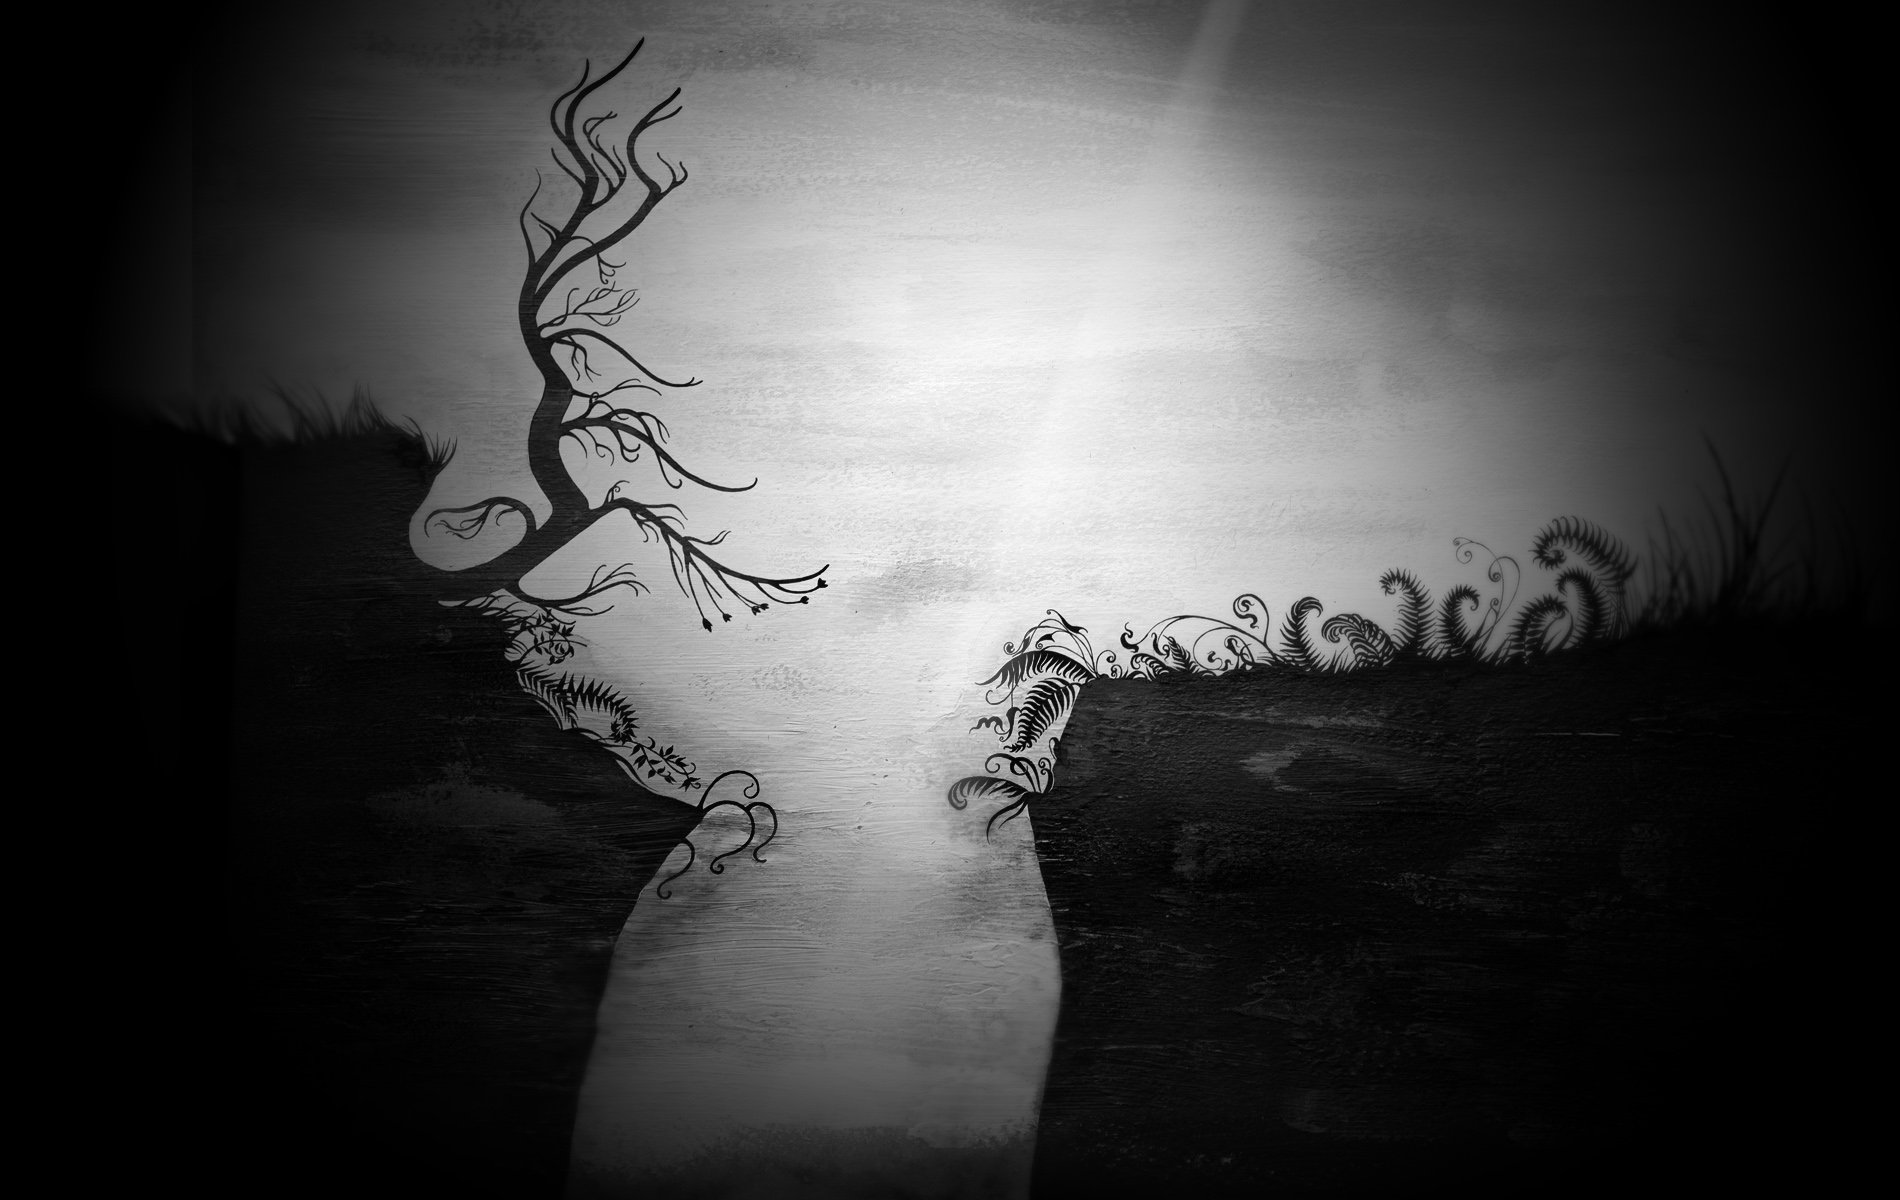
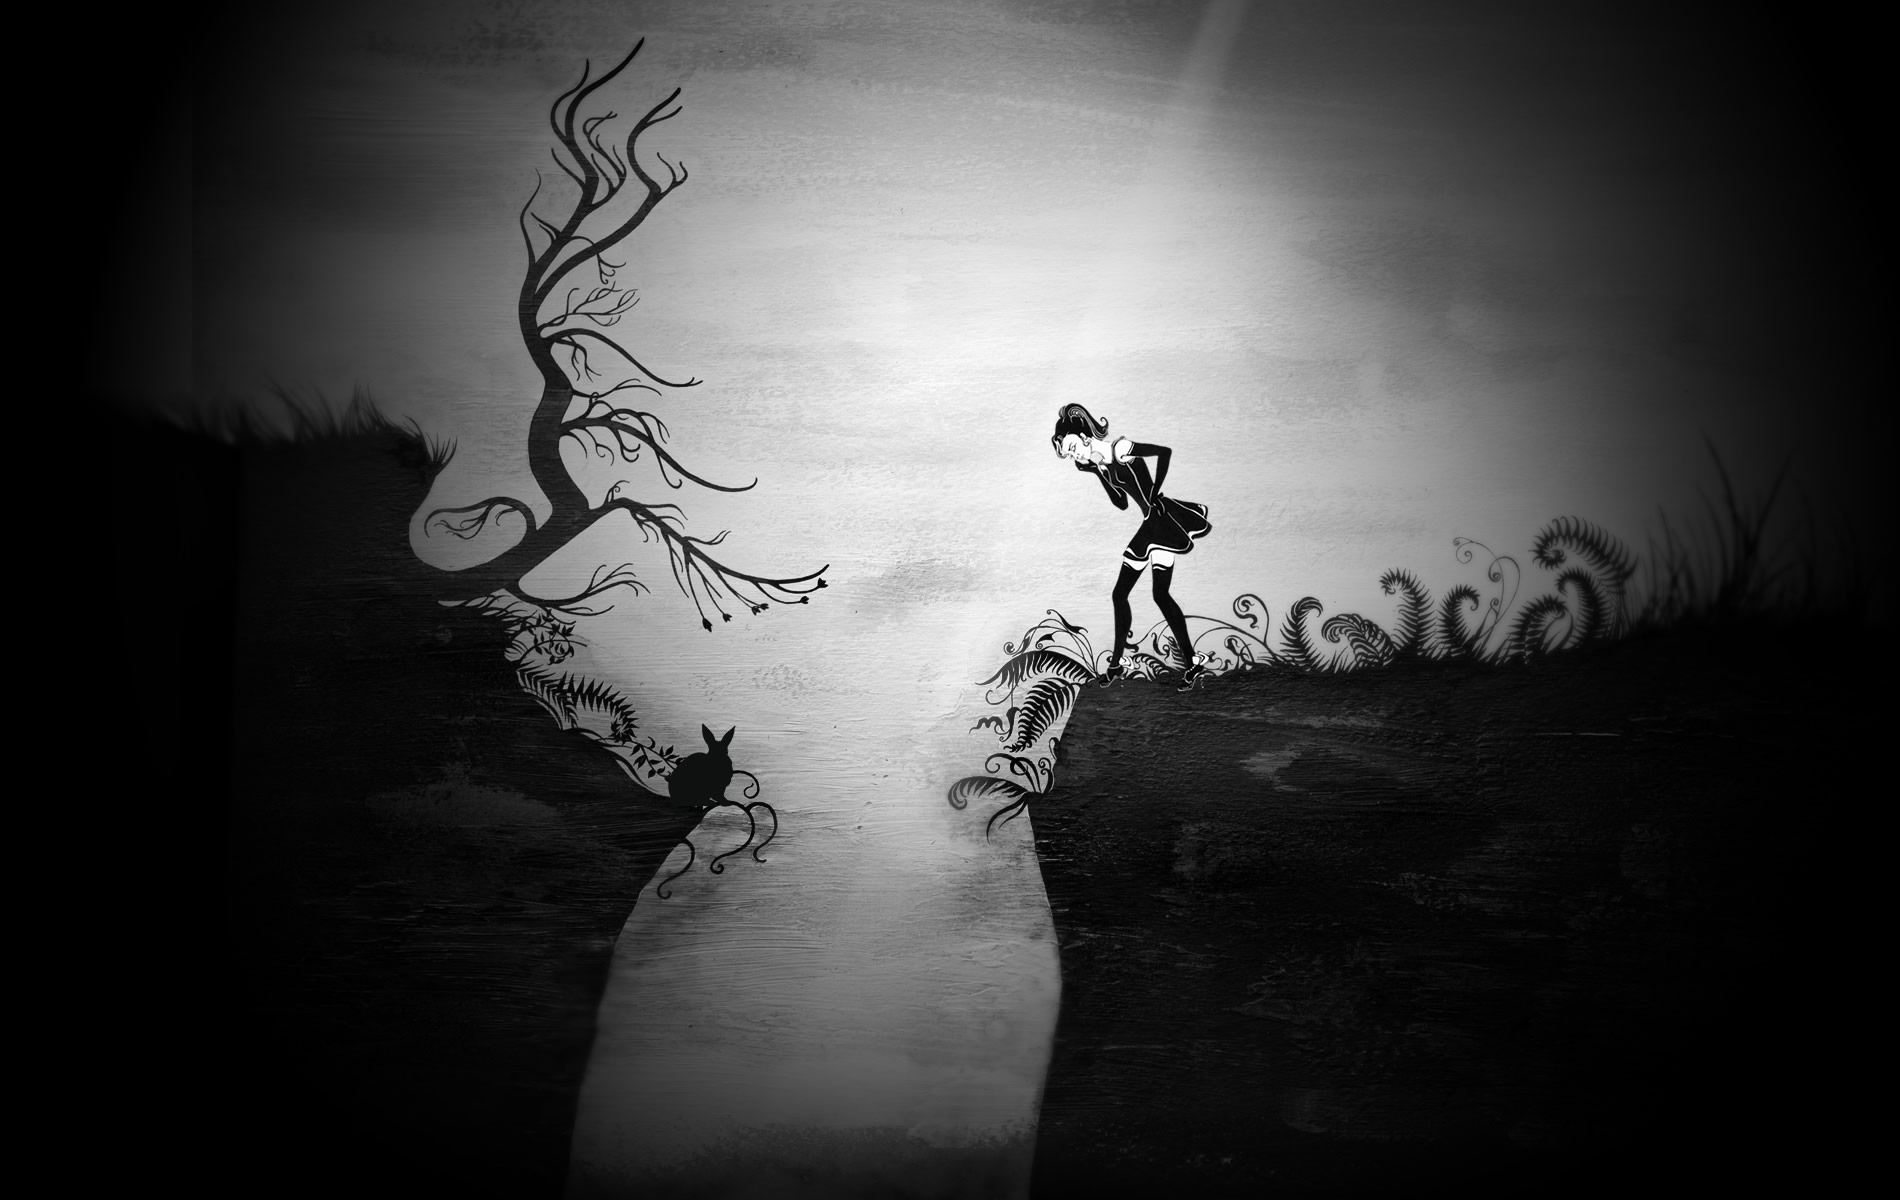
reshape for scene 1 to account for Alice in bg

Changed region(s): [[0.5279, 0.3392, 0.6521, 0.5858], [0.3416, 0.6167, 0.4037, 0.6783]]

diff --git a/css/style.css b/css/style.css
@@ -315,10 +315,11 @@ Scroll events don't trigger on vertical scrolling if overflow-x is applied to th
 Wrapping all content to prevent horizontal scrolling. 
 */
 .wrapper {
-  /*  overflow-x: hidden;*/
+  overflow-x: hidden;
   /* Use font-size to scale the scenes. They are in ems */
   font-size: 100%;
-  background: black; }
+  background: black;
+  /*  margin-left: -170px;*/ }
 
 #scene1 {
   background: -webkit-linear-gradient(top, rgba(0, 0, 0, 0) 90%, rgba(0, 0, 0, 0.9)) bottom, url(../images/bg_scn1.jpg) left top;
@@ -332,10 +333,13 @@ Wrapping all content to prevent horizontal scrolling.
   overflow: hidden;
   position: relative; }
   #scene1 .content {
-    width: 30em;
+    position: relative;
+    width: 33em;
+    height: 75em;
+    box-sizing: border-box;
     margin-left: 37.5em;
     padding-top: 11.56em;
-    -webkit-shape-inside: polygon(6.1875em 0em, 2.4375em 4.4375em, 3.75em 7em, 2.6875em 9.625em, 7.3125em 11.1875em, 7.25em 12.6875em, 4.5625em 14.375em, 4.9375em 16.375em, 7.25em 17.5em, 10.4375em 17.4375em, 10.4375em 19.1875em, 8.3125em 20.5em, 8.8125em 23em, 11.375em 24em, 14.875em 22.9375em, 15.125em 26.5em, 2.0625em 30.6875em, 3.6875em 33.6875em, 7.4375em 35.4375em, 10.25em 35.9375em, 12em 38.9375em, 11.8125em 42.3125em, 3.8125em 46em, 2.1875em 50.3125em, 0.5625em 58em, 0em 62.3125em, 25.875em 62.3125em, 28em 49.75em, 25.5em 42.25em, 21.5em 41.3125em, 21.3125em 36.9375em, 23.4375em 32.8125em, 22.5625em 31.0625em, 25.4375em 27.8125em, 28.375em 25.3125em, 30em 23.5em, 30.0625em 0em, 6.1875em 0em); }
+    -webkit-shape-inside: polygon(0em 0em, 33em -0.06em, 33.13em 23.75em, 30em 23.88em, 28em 25.88em, 28em 28.75em, 32.88em 33.00em, 31.38em 37.50em, 27.75em 37.88em, 23.31em 42.56em, 22.56em 45.88em, 24.5em 46.81em, 21.19em 49.56em, 24em 53.13em, 27em 53.13em, 28.81em 61.13em, 26.31em 74.88em, 0em 75.00em, 0em 65.94em, 2em 58.00em, 11.94em 53.50em, 11.25em 49.69em, 8.75em 47.25em, 9.44em 44.94em, 1.81em 43.75em, 0em 40.00em, 6.38em 40.00em, 12.44em 38.50em, 15.75em 35.25em, 9.88em 35.25em, 8.69em 33.50em, 5.63em 31.75em, 10.75em 30.19em, 5.44em 28.75em, 3.44em 25.19em, 7.25em 23.75em, 4em 23.44em, 1em 20.63em, 2.88em 18.50em, 1.25em 15.63em, 5.63em 11.69em, 6.13em 6.94em, 3.25em 2.44em); }
     #scene1 .content p {
       /* Keeps font-size consistent with root. */
       font-size: 1rem; }
@@ -346,7 +350,7 @@ Wrapping all content to prevent horizontal scrolling.
     top: 0;
     right: 0;
     /*    -webkit-animation: flicker 8s infinite ease-in-out;*/
-    background: -webkit-radial-gradient(center center, ellipse cover, rgba(0, 0, 0, 0.1), black 40%);
+    background: -webkit-radial-gradient(center center, ellipse cover, rgba(0, 0, 0, 0), black 40%);
     background-color: rgba(0, 0, 0, 0);
     /* 
       Fake vignette with scaling because gradients can't be animated in CSS

diff --git a/css/style.scss b/css/style.scss
@@ -40,11 +40,13 @@ Scroll events don't trigger on vertical scrolling if overflow-x is applied to th
 Wrapping all content to prevent horizontal scrolling. 
 */
 .wrapper{
-/*  overflow-x: hidden;*/
+  overflow-x: hidden;
   
   /* Use font-size to scale the scenes. They are in ems */
   font-size: 100%;
   background: black;
+  
+/*  margin-left: -170px;*/
 }
 
 #scene1{
@@ -61,10 +63,13 @@ Wrapping all content to prevent horizontal scrolling.
   position: relative;
 
   .content{
-    width: 30em;
+    position: relative;
+    width: 33em;
+    height: 75em;
+    box-sizing: border-box;
     margin-left: 37.5em;
     padding-top: 11.56em;
-    -webkit-shape-inside: polygon( 6.1875em 0em, 2.4375em 4.4375em, 3.75em 7em, 2.6875em 9.625em, 7.3125em 11.1875em, 7.25em 12.6875em, 4.5625em 14.375em, 4.9375em 16.375em, 7.25em 17.5em, 10.4375em 17.4375em, 10.4375em 19.1875em, 8.3125em 20.5em, 8.8125em 23em, 11.375em 24em, 14.875em 22.9375em, 15.125em 26.5em, 2.0625em 30.6875em, 3.6875em 33.6875em, 7.4375em 35.4375em, 10.25em 35.9375em, 12em 38.9375em, 11.8125em 42.3125em, 3.8125em 46em, 2.1875em 50.3125em, 0.5625em 58em, 0em 62.3125em, 25.875em 62.3125em, 28em 49.75em, 25.5em 42.25em, 21.5em 41.3125em, 21.3125em 36.9375em, 23.4375em 32.8125em, 22.5625em 31.0625em, 25.4375em 27.8125em, 28.375em 25.3125em, 30em 23.5em, 30.0625em 0em, 6.1875em 0em);
+    -webkit-shape-inside: polygon(0em 0em, 33.00em -0.06em, 33.13em 23.75em, 30.00em 23.88em, 28.00em 25.88em, 28.00em 28.75em, 32.88em 33.00em, 31.38em 37.50em, 27.75em 37.88em, 23.31em 42.56em, 22.56em 45.88em, 24.50em 46.81em, 21.19em 49.56em, 24.00em 53.13em, 27.00em 53.13em, 28.81em 61.13em, 26.31em 74.88em, 0em 75.00em, 0em 65.94em, 2.00em 58.00em, 11.94em 53.50em, 11.25em 49.69em, 8.75em 47.25em, 9.44em 44.94em, 1.81em 43.75em, 0em 40.00em, 6.38em 40.00em, 12.44em 38.50em, 15.75em 35.25em, 9.88em 35.25em, 8.69em 33.50em, 5.63em 31.75em, 10.75em 30.19em, 5.44em 28.75em, 3.44em 25.19em, 7.25em 23.75em, 4.00em 23.44em, 1.00em 20.63em, 2.88em 18.50em, 1.25em 15.63em, 5.63em 11.69em, 6.13em 6.94em, 3.25em 2.44em);
     
     p{
       /* Keeps font-size consistent with root. */
@@ -80,7 +85,7 @@ Wrapping all content to prevent horizontal scrolling.
     right: 0;
 /*    -webkit-animation: flicker 8s infinite ease-in-out;*/
 
-    background: -webkit-radial-gradient(center center, ellipse cover, rgba(0,0,0,0.1), rgba(0, 0, 0, 1) 40%);
+    background: -webkit-radial-gradient(center center, ellipse cover, rgba(0,0,0,0), rgba(0, 0, 0, 1) 40%);
     background-color: rgba(0,0,0,0);
 
     /* 
@@ -90,6 +95,7 @@ Wrapping all content to prevent horizontal scrolling.
     */
     -webkit-transform: scale(8);
   }
+  
 }
 
 

diff --git a/index.html b/index.html
@@ -26,6 +26,7 @@
           about stopping herself before she found herself falling down a very deep
           well.</p>
       </div>
+      
       <script type="text/javascript">
 
       var p = document.querySelector('#scene1 p:first-child')
